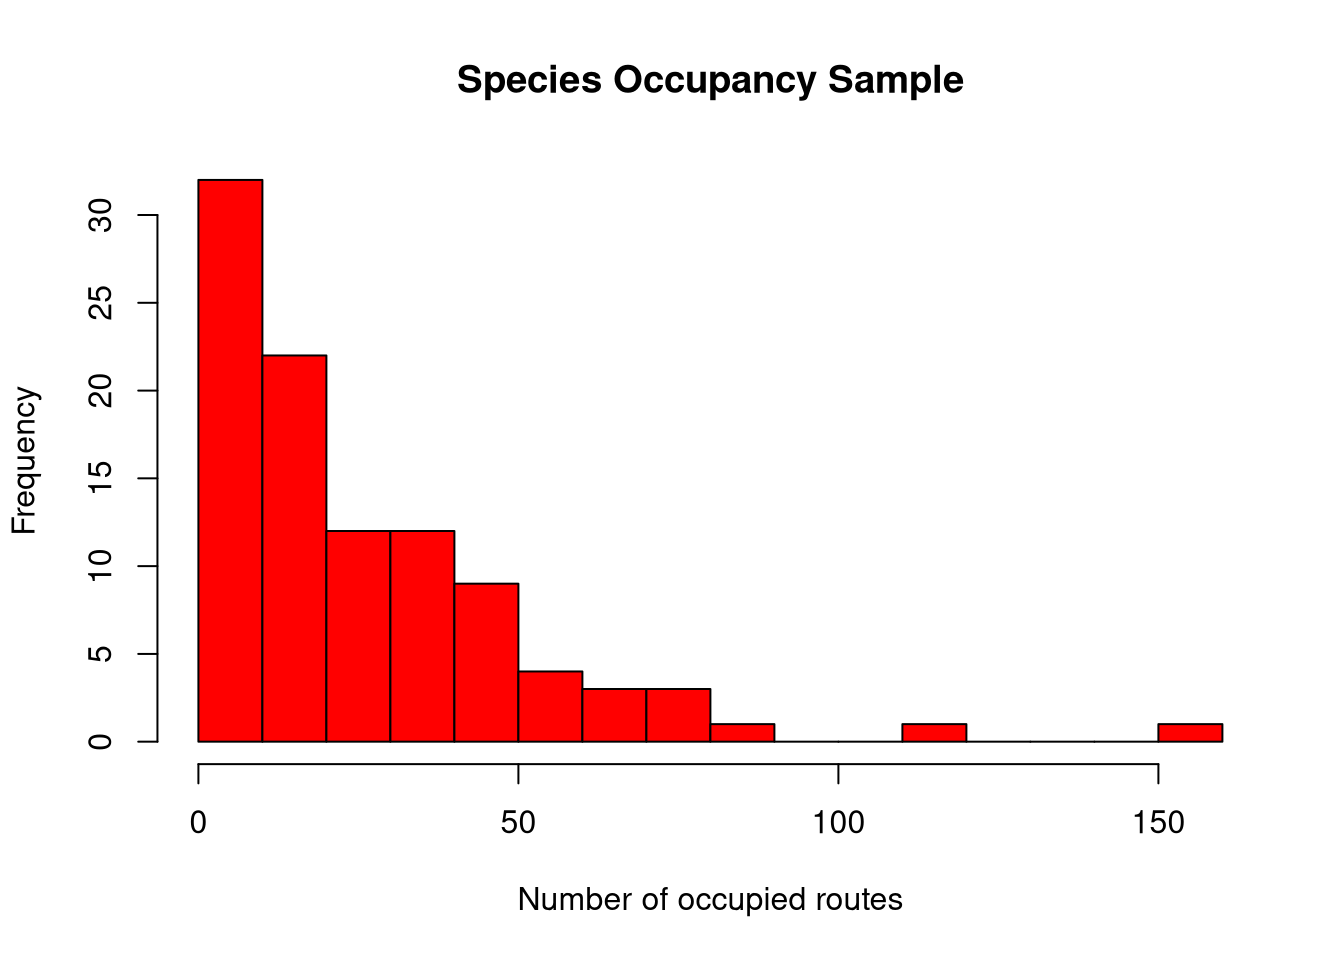
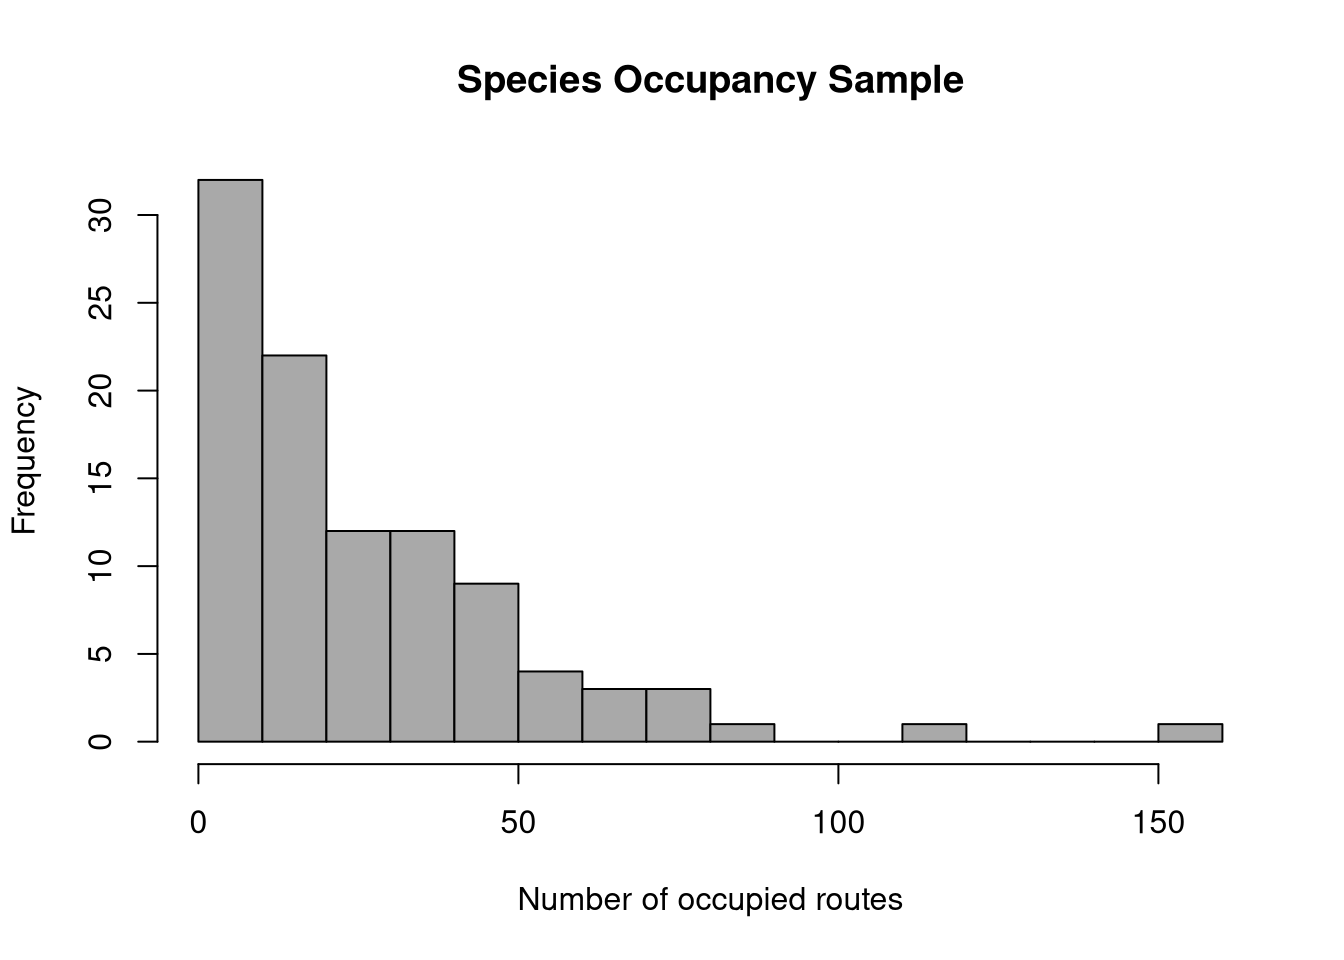
minor update

Changed region(s): [[0.125, 0.1875, 0.5938, 0.7812], [0.8438, 0.75, 0.9062, 0.7812], [0.6562, 0.75, 0.7188, 0.7812]]

diff --git a/docs/index.html b/docs/index.html
@@ -532,7 +532,7 @@ window.Quarto = {
 <span id="cb2-14"><a href="#cb2-14" aria-hidden="true" tabindex="-1"></a>}</span>
 <span id="cb2-15"><a href="#cb2-15" aria-hidden="true" tabindex="-1"></a>route_oc <span class="ot">&lt;-</span> <span class="fu">route_occupancy</span>(<span class="at">num_pairs =</span> num_pairs)</span>
 <span id="cb2-16"><a href="#cb2-16" aria-hidden="true" tabindex="-1"></a></span>
-<span id="cb2-17"><a href="#cb2-17" aria-hidden="true" tabindex="-1"></a><span class="fu">hist</span>(route_oc<span class="sc">$</span>N, <span class="at">breaks =</span> <span class="dv">12</span>, <span class="at">main=</span><span class="st">"N Sites Distribution"</span>, <span class="at">xlab=</span><span class="st">"Number of sites for sister pair"</span>, <span class="at">col=</span><span class="st">"lightblue"</span>)</span></code></pre></div><button title="Copy to Clipboard" class="code-copy-button"><i class="bi"></i></button></div>
+<span id="cb2-17"><a href="#cb2-17" aria-hidden="true" tabindex="-1"></a><span class="fu">hist</span>(route_oc<span class="sc">$</span>N, <span class="at">breaks =</span> <span class="dv">12</span>, <span class="at">main=</span><span class="st">"N Sites Distribution"</span>, <span class="at">xlab=</span><span class="st">"Number of sites for sister pair"</span>, <span class="at">col=</span><span class="st">"seagreen"</span>)</span></code></pre></div><button title="Copy to Clipboard" class="code-copy-button"><i class="bi"></i></button></div>
 <div class="cell-output-display">
 <div>
 <figure class="figure">
@@ -551,7 +551,7 @@ window.Quarto = {
 </div>
 <p>We can also check the occupancy distribution of the first species set in the pairs:</p>
 <div class="cell">
-<div class="code-copy-outer-scaffold"><div class="sourceCode cell-code" id="cb5"><pre class="sourceCode r code-with-copy"><code class="sourceCode r"><span id="cb5-1"><a href="#cb5-1" aria-hidden="true" tabindex="-1"></a><span class="fu">hist</span>(route_oc<span class="sc">$</span>m1, <span class="at">breaks =</span> <span class="dv">12</span>, <span class="at">main=</span><span class="st">"Species Occupancy Sample"</span>, <span class="at">xlab=</span><span class="st">"Number of occupied routes"</span>, <span class="at">col=</span><span class="st">"red"</span>)</span></code></pre></div><button title="Copy to Clipboard" class="code-copy-button"><i class="bi"></i></button></div>
+<div class="code-copy-outer-scaffold"><div class="sourceCode cell-code" id="cb5"><pre class="sourceCode r code-with-copy"><code class="sourceCode r"><span id="cb5-1"><a href="#cb5-1" aria-hidden="true" tabindex="-1"></a><span class="fu">hist</span>(route_oc<span class="sc">$</span>m1, <span class="at">breaks =</span> <span class="dv">12</span>, <span class="at">main=</span><span class="st">"Species Occupancy Sample"</span>, <span class="at">xlab=</span><span class="st">"Number of occupied routes"</span>, <span class="at">col=</span><span class="st">"darkgrey"</span>)</span></code></pre></div><button title="Copy to Clipboard" class="code-copy-button"><i class="bi"></i></button></div>
 <div class="cell-output-display">
 <div>
 <figure class="figure">
@@ -562,7 +562,7 @@ window.Quarto = {
 </div>
 <p>This plot resembles a species abundance distribution, so if we take the logarithm of it, it should be close to a normal distribution.</p>
 <div class="cell">
-<div class="code-copy-outer-scaffold"><div class="sourceCode cell-code" id="cb6"><pre class="sourceCode r code-with-copy"><code class="sourceCode r"><span id="cb6-1"><a href="#cb6-1" aria-hidden="true" tabindex="-1"></a><span class="fu">hist</span>(<span class="fu">log</span>(route_oc<span class="sc">$</span>m1), <span class="at">breaks =</span> <span class="dv">12</span>, <span class="at">main=</span><span class="st">"Species Occupancy Sample"</span>, <span class="at">xlab=</span><span class="st">"Number of occupied routes"</span>, <span class="at">col=</span><span class="st">"red"</span>)</span></code></pre></div><button title="Copy to Clipboard" class="code-copy-button"><i class="bi"></i></button></div>
+<div class="code-copy-outer-scaffold"><div class="sourceCode cell-code" id="cb6"><pre class="sourceCode r code-with-copy"><code class="sourceCode r"><span id="cb6-1"><a href="#cb6-1" aria-hidden="true" tabindex="-1"></a><span class="fu">hist</span>(<span class="fu">log</span>(route_oc<span class="sc">$</span>m1), <span class="at">breaks =</span> <span class="dv">12</span>, <span class="at">main=</span><span class="st">"Species Occupancy Sample"</span>, <span class="at">xlab=</span><span class="st">"Number of occupied routes"</span>, <span class="at">col=</span><span class="st">"darkgrey"</span>)</span></code></pre></div><button title="Copy to Clipboard" class="code-copy-button"><i class="bi"></i></button></div>
 <div class="cell-output-display">
 <div>
 <figure class="figure">
@@ -902,7 +902,7 @@ Important
 </div>
 <div id="callout-3" class="callout-3-contents callout-collapse collapse show">
 <div class="callout-body-container callout-body">
-<p>There are 2 routes with zero occupancy, so-called double zeros. Double zeros could mean two things. Either both species are truly absent at the route (true negatives), or they were not detected during the survey (false negatives). Given that the route is within their range zone and there were 50 points where at least one of the species could have been detected, it should be more likely that they were not there if both of the species are not extremly rare or difficult to detect. This problem will likely increase on stop-level scale, because an individual stops are the basic observational unit, so maybe it will be reasonable to use occupancy models to estimate the probabily of false positives.</p>
+<p>There are 2 routes with zero occupancy, so-called double zeros. Double zeros could mean two things. Either both species are truly absent at the route (true negatives), or they were not detected during the survey (false negatives). Given that the route is within their range zone and there were 50 points where at least one of the species could have been detected, it should be more likely that they were not there if both of the species are not extremly rare or difficult to detect. This problem will likely increase on stop-level scale, because an individual stops are the basic observational unit, so maybe it will be reasonable to use occupancy models to estimate the probability of false negatives.</p>
 </div>
 </div>
 </div>